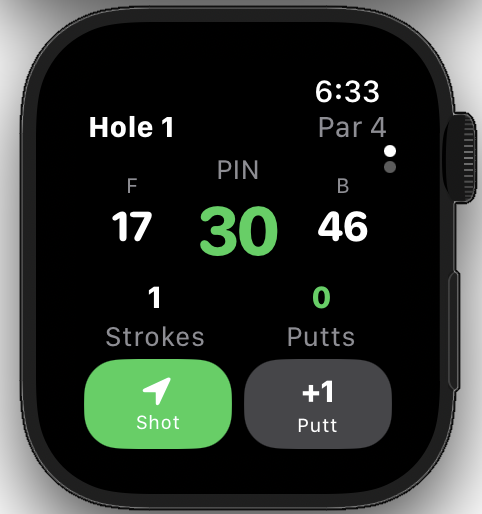
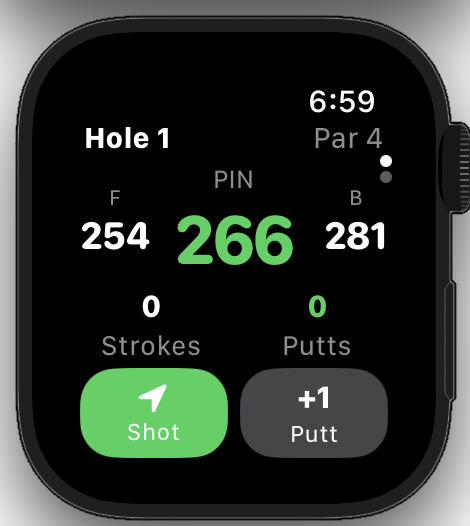
Fix PIN distance text getting truncated on Watch

diff --git a/GoBirdie Watch App/WatchRoundView.swift b/GoBirdie Watch App/WatchRoundView.swift
@@ -102,7 +102,8 @@ private struct DistanceModeView: View {
 
     var body: some View {
         VStack(spacing: 3) {
-            HStack(spacing: 2) {
+            HStack(spacing: 0) {
+                // FRONT COLUMN
                 VStack(spacing: 0) {
                     Text("F")
                         .font(.system(size: 11)).foregroundStyle(.secondary)
@@ -110,17 +111,21 @@ private struct DistanceModeView: View {
                         .font(.system(size: 20, weight: .bold, design: .rounded))
                         .foregroundStyle(.white)
                 }
-                .frame(maxWidth: .infinity)
+                .frame(maxWidth: .infinity, alignment: .leading)
 
+                // PIN COLUMN
                 VStack(spacing: 0) {
                     Text("PIN")
                         .font(.system(size: 13)).foregroundStyle(.secondary)
                     Text("\(session.pinYards ?? 0)")
-                        .font(.system(size: 32, weight: .bold, design: .rounded))
+                        .font(.system(size: 36, weight: .bold, design: .rounded))
                         .foregroundStyle(.green)
+                        .fixedSize(horizontal: true, vertical: false)
                 }
-                .frame(maxWidth: .infinity, alignment: .center)
+                .layoutPriority(1)
+                .frame(minWidth: 80, alignment: .center)
 
+                // BACK COLUMN
                 VStack(spacing: 0) {
                     Text("B")
                         .font(.system(size: 11)).foregroundStyle(.secondary)
@@ -128,9 +133,9 @@ private struct DistanceModeView: View {
                         .font(.system(size: 20, weight: .bold, design: .rounded))
                         .foregroundStyle(.white)
                 }
-                .frame(maxWidth: .infinity)
+                .frame(maxWidth: .infinity, alignment: .trailing)
             }
-
+            
             HStack(spacing: 12) {
                 VStack(spacing: 1) {
                     Text("\(session.strokes)")
@@ -158,7 +163,7 @@ private struct DistanceModeView: View {
                         Image(systemName: "location.fill")
                             .font(.body)
                         Text("Shot")
-                            .font(.system(size: 10))
+                            .font(.system(size: 12))
                     }
                     .frame(maxWidth: .infinity)
                 }
@@ -172,7 +177,7 @@ private struct DistanceModeView: View {
                         Text("+1")
                             .font(.body).fontWeight(.bold)
                         Text("Putt")
-                            .font(.system(size: 10))
+                            .font(.system(size: 12))
                     }
                     .frame(maxWidth: .infinity)
                 }
